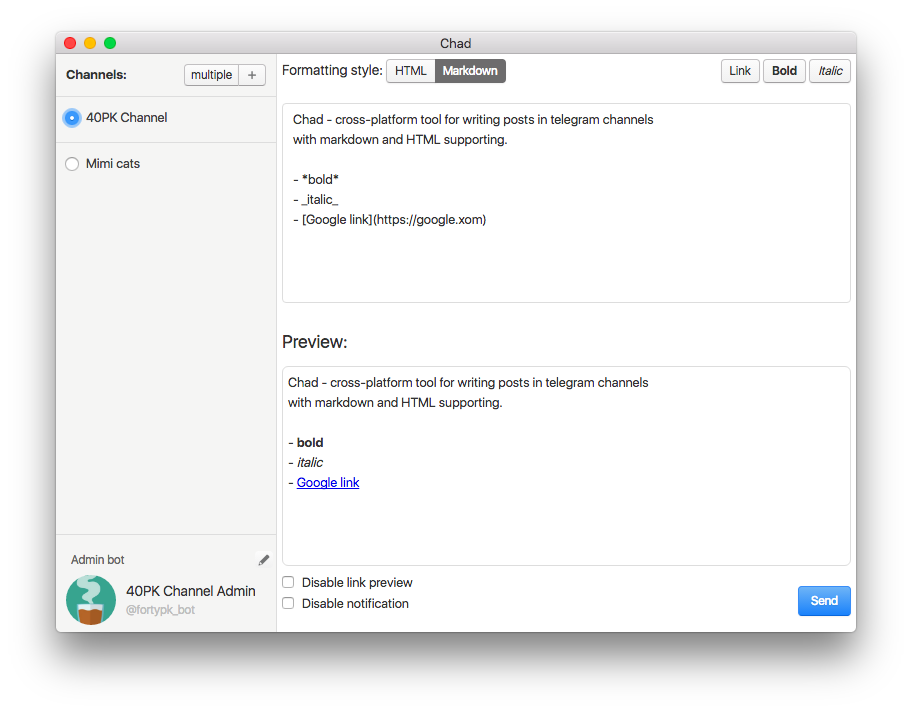
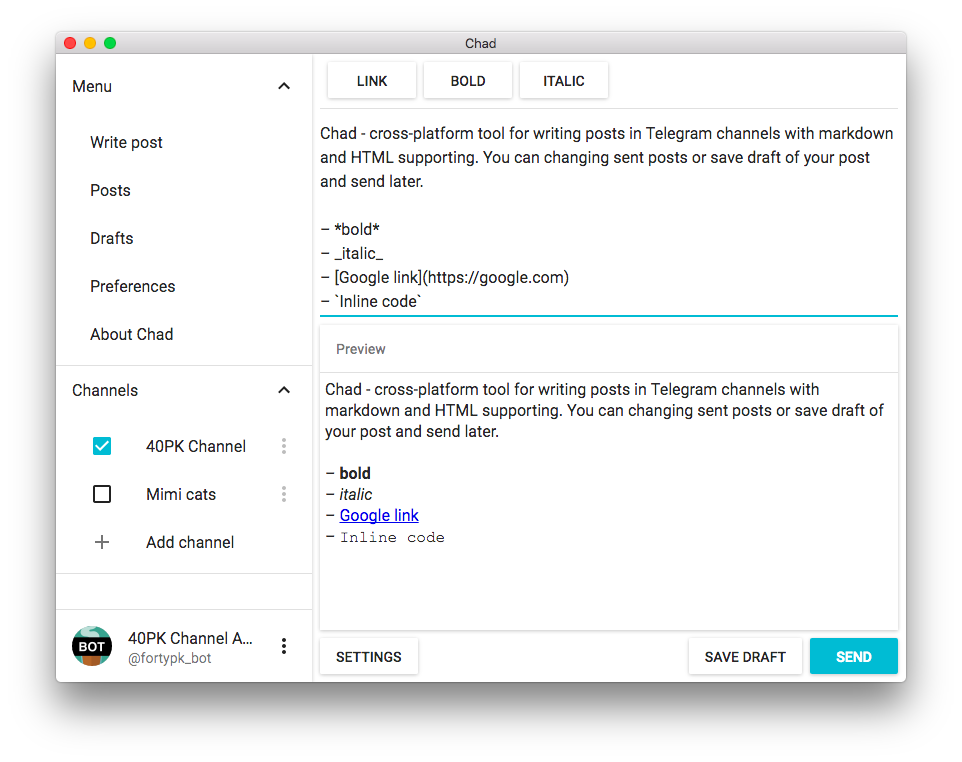
Remove unused packages Update README and CHANGELOG

diff --git a/README.md b/README.md
@@ -9,13 +9,15 @@ Cross-platform tool for writing posts in telegram channels with markdown and HTM
 ## Features
 - Post preview (HTML, markdown, plain text)
 - Sending posts in multiple channels
+- Drafts of posts
+- Change sent posts
 - Sending post options
 - Formatting controls (link, bold, italic)
 - Multilanguage support
-- OS X design 😊
+- Material design 😊
 
 ## How to use
-If you have own bot token in telegram, you can start from step 4
+If you have bot token in telegram, you can start from step 4
 
 1. Goto `@BotFather` in telegram
 2. Create new bot with `/newbot` command
@@ -25,8 +27,6 @@ If you have own bot token in telegram, you can start from step 4
 6. Write your post and send ![Write and send post](images/step6.png)
 
 ## Roadmap
-- Drafts
-- Change published posts
 - Attachments
 - Link preview
 - Telegram-style preview
@@ -38,29 +38,42 @@ If you have own bot token in telegram, you can start from step 4
 
 ## Used libraries and frameworks
 - [Electron](http://electron.atom.io/) - framework for create cross-platform desktop applications using JavaScript, HTML and CSS
-- [PhotonKit](http://photonkit.com/) - OS X style UI kit
-- [Angular.js](https://angularjs.org) - JavaScript MVW Framework
-- [jQuery](https://jquery.com/) - JavaScript DOM manipulation library
+- [React](https://facebook.github.io/react/) - JavaScript library for building user interface
+  - react-dom
+- [Material-UI](http://www.material-ui.com) - A Set of React Components that Implement Google's Material Design
+  - [react-tap-event-plugin](https://github.com/zilverline/react-tap-event-plugin) - Instant TapEvents for React
 - [XSS](https://github.com/leizongmin/js-xss) - HTML sanitizer
 - [electron-contextmenu-middleware](https://github.com/parro-it/electron-contextmenu-middleware) - `Electron` context menu
 - [electron-input-menu](https://github.com/parro-it/electron-input-menu) - Context menu for `Electron` input elements
 - [universal-analytics](https://github.com/peaksandpies/universal-analytics) - Module for Google's Universal Analytics tracking
+- [react-layout-pane](https://github.com/tomkp/react-layout-pane) - React layout component using flexbox
+- [superagent](https://github.com/visionmedia/superagent) - small progressive client-side HTTP request library
 
 ## How to build
-1. Install `electron-packager`:
+1. Install `electron-packager` and `gulp`:
 ```
-npm install electron-packager -g
+npm install electron-packager gulp -g
 ```
 2. Install dependencies:
 ```
 npm install
 ```
-3. Run build script from terminal
+3. Compile code:
+```
+# Debug
+gulp build-debug
+
+# Relese
+gulp build-relese
+```
+4. Run build script:
 ```
 # OS X
 npm run package-darwin
+
 # Linux
 npm run package-linux
+
 # Windows
 npm run package-win
 ```

diff --git a/CHANGELOG.md b/CHANGELOG.md
@@ -1,5 +1,19 @@
 # Changelog
 
+## 3.0.0 - 2016-08-14
+### Added
+- "Posts" section (Changing sent posts)
+- "Drafts" section (Save drafts of post, change and send later)
+- Dark theme
+
+### Changed
+- Material design
+- Migrate from Angular to React
+- Flexible preview area
+
+### Fixed
+- Hide menubar on Windows
+
 ## 2.0.0 - 2016-07-31
 ### Added
 - Menu in sidebar
@@ -18,4 +32,5 @@
 ## 1.0.0 - 2016-07-30
 ### First release
 ---
-[2.0.0] [https://github.com/Perkovec/Chad/compare/v1.0...v2.0](https://github.com/Perkovec/Chad/compare/v1.0...v2.0)
+[3.0.0]: https://github.com/Perkovec/Chad/compare/v2.0...v3.0
+[2.0.0]: https://github.com/Perkovec/Chad/compare/v1.0...v2.0
